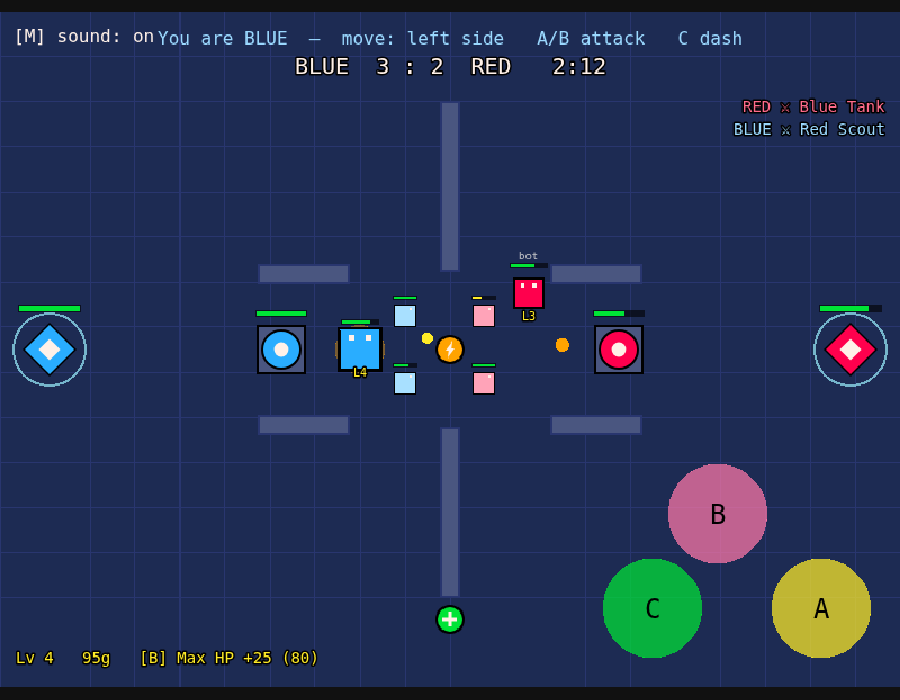
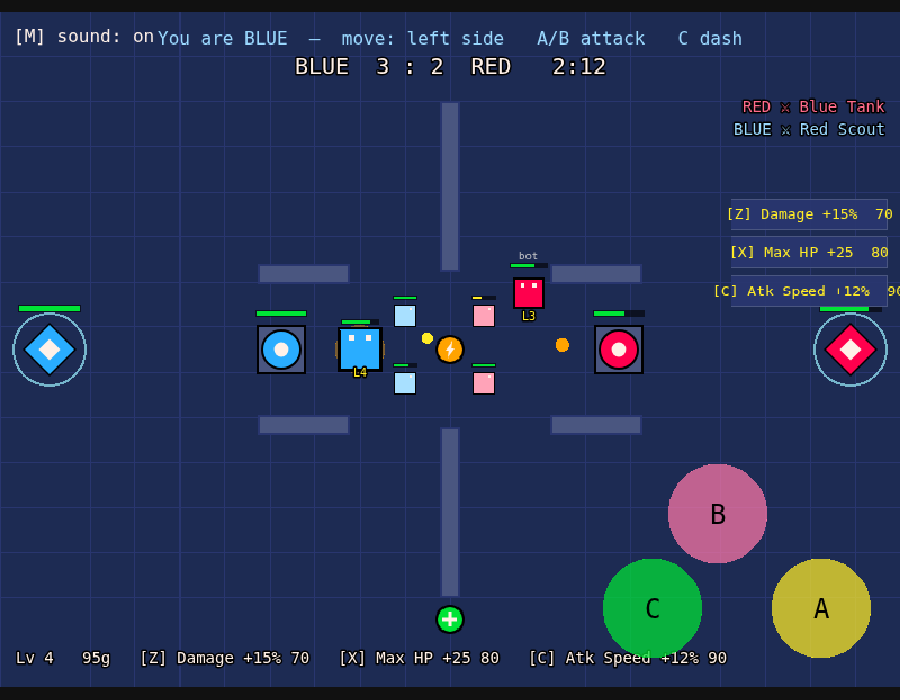
Mobile: tappable class picker and shop (touch parity)
Class selection and the shop were keyboard-only (1/2/3 and Z/X/C/B), so touch
players couldn't use two whole systems. Both are now tappable too:

- Lobby: a row of tappable class buttons (Scout/Soldier/Tank) under the banner;
  the selected one is highlighted. Keyboard 1/2/3 still works.
- Play: tappable shop item buttons on the RIGHT edge (the movement joystick only
  reacts to the left half, so they never start movement); each is labelled with
  its item + cost and dims when unaffordable, and they hide once maxed. Keyboard
  Z/X/C/B still works.

A small reusable makeTapButton helper builds them; every tap calls
stopPropagation so it can't leak to the joystick. The keyboard hint text and the
existing HUD lines are kept (so the keyboard tests are unchanged), with the
prompts updated to "tap or 1/2/3".

New m28.touch.render (class buttons show/select in the lobby, shop buttons
show/label during play and hide when maxed). 43/43 test groups pass; live
two-browser test passes; build OK. README controls updated for touch.

https://claude.ai/code/session_01MAXKRUpJFcKFAvV2b8xTXo

diff --git a/src/scenes/ArenaScene.js b/src/scenes/ArenaScene.js
@@ -240,6 +240,29 @@ export default class ArenaScene extends Phaser.Scene {
       .setScrollFactor(0)
       .setDepth(500);
 
+    // --- Touch buttons for class + shop (keyboard still works) ---------------
+    // Class picker: a row of tappable buttons in the lobby (centered, where the
+    // world is frozen so there's no movement-joystick conflict).
+    this.classButtons = CLASS_ORDER.map((cls, i) => {
+      const w = 110;
+      const x = GAME_WIDTH / 2 - 175 + i * 120;
+      const b = this.makeTapButton(x, GAME_HEIGHT / 2 + 116, w, 30, CLASSES[cls].name, () =>
+        this.net.sendClass(cls)
+      );
+      b.cls = cls;
+      return b;
+    });
+
+    // Shop: tappable item buttons on the RIGHT edge (the joystick only reacts to
+    // the left half, so these never start movement). One per shop item.
+    this.shopButtons = PROGRESS.shop.slice(0, 3).map((item, i) => {
+      const b = this.makeTapButton(GAME_WIDTH - 150, 180 + i * 34, 138, 28, "", () =>
+        this.net.sendBuy(item.id)
+      );
+      b.item = item;
+      return b;
+    });
+
     // Win/lose banner (hidden until a base falls).
     this.gameOverText = this.add
       .text(GAME_WIDTH / 2, GAME_HEIGHT / 2, "", {
@@ -416,15 +439,20 @@ export default class ArenaScene extends Phaser.Scene {
       this.lobbyText.setVisible(false);
     }
 
-    // The class picker shows alongside the lobby (waiting/countdown).
-    if (phase === "waiting" || phase === "countdown") {
+    // The class picker (text hint + tappable buttons) shows in the lobby.
+    const picking = phase === "waiting" || phase === "countdown";
+    if (picking) {
       const pick = CLASS_ORDER.map((c, i) => {
         const tag = `[${i + 1}] ${CLASSES[c].name}`;
         return c === this.net.cls ? `‹${tag}›` : ` ${tag} `;
       }).join("  ");
-      this.classText.setText(`Choose your hero:\n${pick}`).setVisible(true);
+      this.classText.setText(`Choose your hero (tap or 1/2/3):\n${pick}`).setVisible(true);
     } else {
       this.classText.setVisible(false);
+    }
+    for (const b of this.classButtons) {
+      b.setVisible(picking);
+      if (picking) b.setColor(b.cls === this.net.cls ? "#ffec27" : "#fff1e8");
     }
   }
 
@@ -466,6 +494,52 @@ export default class ArenaScene extends Phaser.Scene {
     return `${Math.floor(sec / 60)}:${String(sec % 60).padStart(2, "0")}`;
   }
 
+  // A small tappable UI button (a panel + centered label). Stops the tap from
+  // reaching the movement joystick, so it works anywhere on screen. Returns a
+  // handle with show/label/enable helpers (and `tap()` for tests). Starts hidden.
+  makeTapButton(x, y, w, h, label, onTap) {
+    const bg = this.add
+      .rectangle(x, y, w, h, 0x29366f, 0.92)
+      .setOrigin(0, 0.5)
+      .setScrollFactor(0)
+      .setDepth(2001)
+      .setStrokeStyle(1, 0x4a5680)
+      .setInteractive({ useHandCursor: true });
+    const txt = this.add
+      .text(x + w / 2, y, label, { fontFamily: "monospace", fontSize: "13px", color: "#fff1e8" })
+      .setOrigin(0.5)
+      .setScrollFactor(0)
+      .setDepth(2002);
+    bg.on("pointerdown", (pointer, lx, ly, event) => {
+      if (event) event.stopPropagation();
+      onTap();
+    });
+    const btn = {
+      bg,
+      txt,
+      setVisible(v) {
+        bg.setVisible(v);
+        txt.setVisible(v);
+        return btn;
+      },
+      setLabel(s) {
+        txt.setText(s);
+        return btn;
+      },
+      setColor(c) {
+        txt.setColor(c);
+        return btn;
+      },
+      setEnabled(e) {
+        bg.setFillStyle(0x29366f, e ? 0.92 : 0.5);
+        txt.setColor(e ? "#ffec27" : "#9a9aa0");
+        return btn;
+      },
+      tap: onTap, // for tests
+    };
+    return btn.setVisible(false);
+  }
+
   // Bottom-left progression line for the local hero: level, gold, and the shop
   // (each item on its own key — Z/X/C), or "maxed" once fully upgraded.
   updateShopHud() {
@@ -476,8 +550,10 @@ export default class ArenaScene extends Phaser.Scene {
       return;
     }
     let line = `Lv ${me.level || 1}   ${me.gold || 0}g`;
+    const maxed = (me.buys || 0) >= PROGRESS.shopMaxStacks;
+    const shopOpen = this.net.phase === "playing" && !maxed;
     if (this.net.phase === "playing") {
-      if ((me.buys || 0) >= PROGRESS.shopMaxStacks) {
+      if (maxed) {
         line += "   upgrades maxed";
       } else {
         const shop = PROGRESS.shop
@@ -488,6 +564,15 @@ export default class ArenaScene extends Phaser.Scene {
       }
     }
     this.shopText.setText(line).setColor("#fff1e8");
+
+    // Tappable shop buttons (right edge): labelled, dimmed when unaffordable.
+    this.shopButtons.forEach((b, i) => {
+      b.setVisible(shopOpen);
+      if (shopOpen) {
+        b.setLabel(`[${keys[i]}] ${b.item.name}  ${b.item.cost}`);
+        b.setEnabled((me.gold || 0) >= b.item.cost);
+      }
+    });
   }
 
   // The corner kill feed: most recent knockouts on top, colored by the team

diff --git a/README.md b/README.md
@@ -70,8 +70,8 @@ To stop either server: click its Terminal and press `Ctrl + C`.
 | Ability (Power Shot) | `K` | Tap the **B** button |
 | Dash | `L` or `Shift` | Tap the **C** button |
 | Mute / unmute sound | `M` | Tap **[M] sound** (top-left) |
-| Pick a hero class (in the lobby) | `1` / `2` / `3` | — |
-| Buy shop upgrades (with gold) | `Z` / `X` / `C` (or `B` for next) | — |
+| Pick a hero class (in the lobby) | `1` / `2` / `3` | Tap a class button |
+| Buy shop upgrades (with gold) | `Z` / `X` / `C` (or `B` for next) | Tap an item button (right edge) |
 
 The first tap or key press dismisses the **"Tap to play"** start gate — this
 also unlocks sound (mobile browsers stay silent until you interact).
